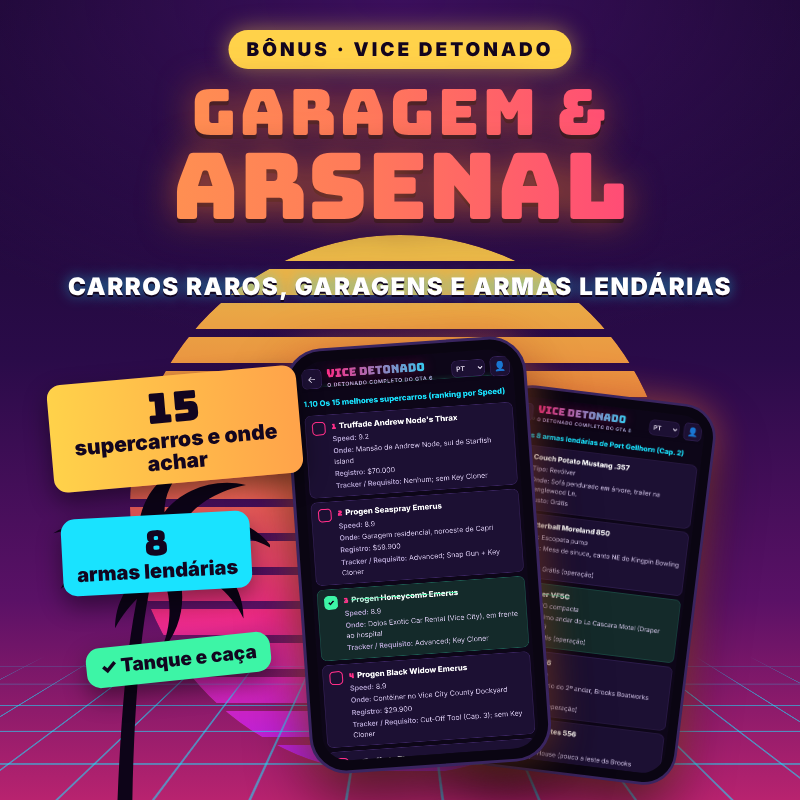
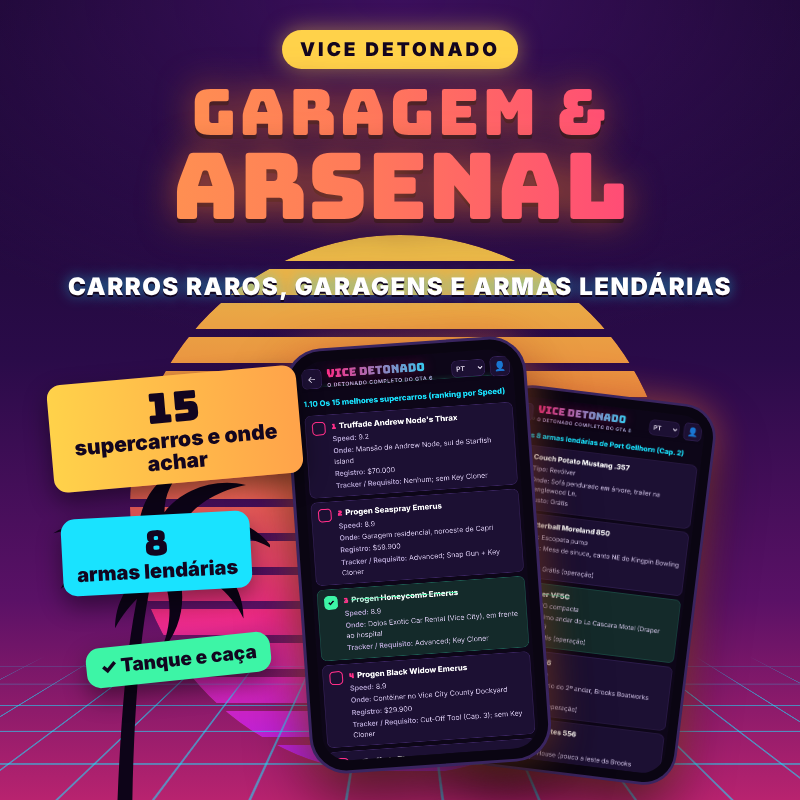
Tira a palavra bônus dos order bumps (capas e app)
Claude-Session: https://claude.ai/code/session_01EDcYwq5CbwWpEmB3uCXkTa

Changed region(s): [[0.2812, 0.0312, 0.7188, 0.0938]]

diff --git a/gta6-guia/criativos/capa/bump.html b/gta6-guia/criativos/capa/bump.html
@@ -33,7 +33,7 @@ body{width:800px;height:800px;overflow:hidden;font-family:Inter,sans-serif;
 </style></head><body>
 <div class="sun"></div><div class="grid"></div>
 <svg class="palm" style="left:-30px;width:300px;height:420px" viewBox="0 0 240 340" fill="currentColor"><path d="M118 340c4-90 10-160 30-215l6 3c-16 52-22 120-24 212z"/><path d="M150 128c-22-16-58-20-84-4 26-6 54 0 74 12-30-3-56 10-68 33 20-16 48-22 70-16-16 10-26 28-26 48 12-22 30-36 40-38 6 16 6 38-4 58 20-20 22-48 14-70 22 4 44 20 54 42 0-30-22-52-48-62 22-10 52-6 72 6-14-22-46-32-72-22 10-16 30-26 50-30-26-6-52 4-66 22 0-14 6-26 16-36-20 6-32 22-36 42z"/></svg>
-<div class="pill">BÔNUS · VICE DETONADO</div>
+<div class="pill">VICE DETONADO</div>
 <div class="title"><span class="t1" id="t1"></span><span class="t2" id="t2"></span></div>
 <div class="sub" id="sub"></div>
 <div class="phone p2"><img id="i2"></div>

diff --git a/gta6-guia/app/public/i18n.js b/gta6-guia/app/public/i18n.js
@@ -14,10 +14,10 @@ window.I18N = {
     pending: 'Só pendentes',
     sections: 'Seções',
     back: 'Voltar',
-    locked: 'Bônus',
-    get: 'Quero esse bônus',
-    lockedTitle: 'Módulo bônus',
-    lockedHint: 'Esse módulo é um bônus à parte. Se você já comprou, ele libera sozinho em alguns minutos: saia e entre de novo.',
+    locked: '',
+    get: 'Quero esse módulo',
+    lockedTitle: '',
+    lockedHint: 'Esse módulo é vendido à parte. Se você já comprou, ele libera sozinho em alguns minutos: saia e entre de novo.',
     soon: 'em breve',
     reset: 'Zerar progresso deste módulo',
     resetConfirm: 'Zerar todas as marcações deste módulo?',

diff --git a/gta6-guia/app/public/app.js b/gta6-guia/app/public/app.js
@@ -136,7 +136,7 @@
       if (!m.access) {
         const url = ME.bumpUrls[m.id] || ME.checkoutUrl;
         return `<a class="mod locked" href="#/locked/${m.id}"><div class="ic">${m.icon}</div><div style="flex:1">
-          <h3>${info.t}<span class="tag">${t.locked}</span></h3><p>${info.d}</p>
+          <h3>${info.t}${t.locked ? `<span class="tag">${t.locked}</span>` : ''}</h3><p>${info.d}</p>
           ${url ? `<span class="btn gold">🔒 ${t.get}</span>` : '<span class="lockline">🔒</span>'}</div></a>`;
       }
       const s = modStat(m);
